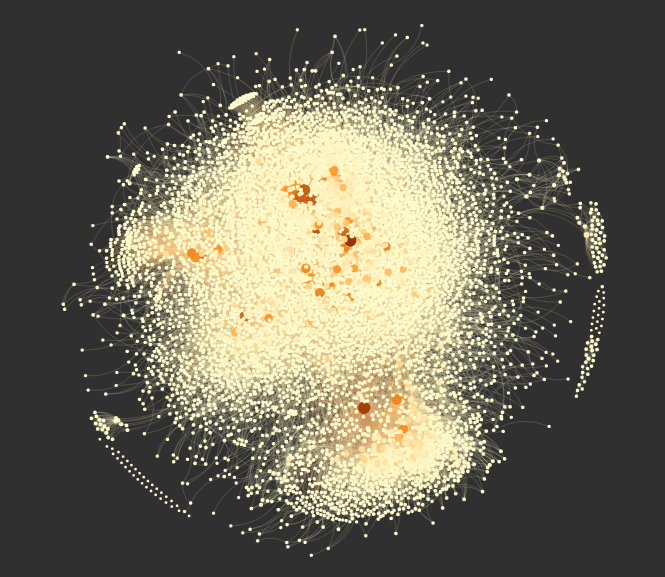
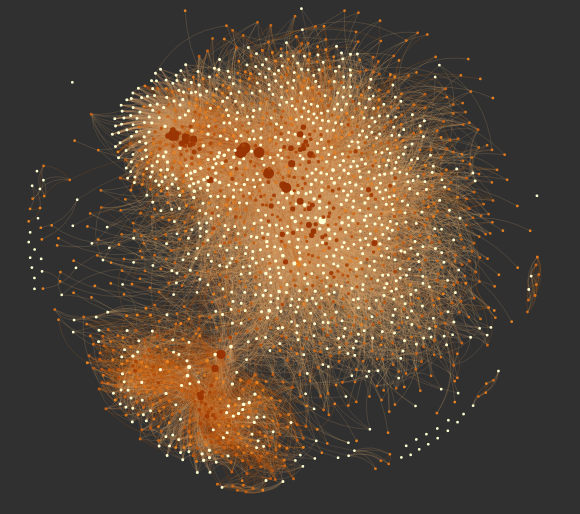
Added figures and nearly-final post.

diff --git a/content/2016-02-09-PypiAnalysis.md b/content/2016-02-09-PypiAnalysis.md
@@ -26,12 +26,13 @@ every package on the Pypi server. There are a few things that are conceivable:
 - Tally up the version strings for each of the packages, and find weird ones/outliers.
 
 I might visit the other options in a later post, but here I will be looking at the dependencies. This post 
-focuses on a programming language, and will necessarily be more technical than the other ones. Pretty 
-pictures near the bottom.
+focuses on a programming language, and will necessarily be more technical than the other ones. Nonetheless, I tried
+to make it accessible to everyone, and explain clearly what I am doing. If you don't care about the nitty gritty of 
+how I figured out the dependencies, skip to the "Dependency Analysis" section.
 
 ## Parsing Package Dependencies
 
-Still here? Cool, let's get into how I did it. The first thing I needed to do was just figure out what the
+The first thing I needed to do was just figure out what the
 dependencies of a given package are. That turned out to be way harder than it has any right to be. The 
 command
 
@@ -80,25 +81,82 @@ The first step left me with a bunch of directories that contain all the metadata
 3. Failing *that*, search any file that ends with '.txt' in any directory that contains the word 'requirement' for stuff that looks like python requirements.
 4. Output the requirements found to a text file
 
-Of the $\sim 74000$ packages on pypi, I was able to parse requirements for 20522. The remaining packages probably do require other packages, but the `setup.py` file is written in such a way that it was difficult to parse. Sadly, my [TelFit package](https://pypi.python.org/pypi/TelFit/1.3.2) is one of those failures because it defines the install_requires keyword programmatically. Leaving those out probably biases the result in some complex way, but I am sick of munging so let's move on to the fun part.
+Of the $\sim 74000$ packages on pypi, I was able to parse requirements for 20522. The remaining packages probably do require other packages, but the `setup.py` file is written in such a way that it was difficult to parse. Leaving those out probably biases the result in some complex way, but I am sick of munging so let's move on to the fun part.
 
 ## Dependency Analysis
 
-Now that I have all of the dependencies for (many of) the packages on the pypi server, I want to see what I can learn. The first thing is to make a network graph of dependencies (click on the image for an interactive version):
+Now that I have all of the dependencies for (many of) the packages on the pypi server, I want to see what I can learn. The first thing I do is make a network graph of dependencies (click on the image for an interactive version):
 
 <a href="http://kgullikson88.github.io/blog/Javascript/PypiGraph/Requirements_clipped/network/index.html">
   <img src="Images/PypiGraph.png" >
 </a>
 
+The network graph visualizes how python packages depend on each other. Each point (or node, in graph-theory speak) represents a python package,
+and each line (or edge) represents that one of the packages depends on the other. This is actually a directed graph, in that it makes sense to say things like "astropy depends on numpy, but not the other way around".
+
 Comparing this network graph to the version that Olivier Girardot made a few years ago, we immediately see
-that the python ecosystem has grown tremendously and become much more connected. The bulk of the network is
-centered on the `requests` module, indicating the python is largely a web language (much to the chagrin of me the scientist!) A good sign is the size of the testing and documentation cluster, which is just above the requests cluster. The pydata stack, which includes `numpy`, `scipy`, `matplotlib`, and `pandas`, is in the upper left. I'm not
-sure what is going on with the clump that is separated from the rest near the bottom; I think it might be iphone/android app frameworks.
+that the python ecosystem has grown tremendously and become much more connected. in fact, the network I show here
+is much smaller than the data I have, because I removed any package with $< 10$ connections. The bulk of the network is
+centered on the [`requests`](http://docs.python-requests.org/en/master/) module, indicating the python is largely useful for interacting with the internet. 
 
-The graph is pretty and very fun to play with, but what can we actually learn from it?
+The clump near the bottom of the graph is caused the [`zope` framework](http://zope.org/). While giving a short talk at a python meetup, I learned that `zope` was an early web framework. It is similar to the more modern and well-known [`django` library](https://www.djangoproject.com/).
 
-TODO: Figure out other interesting statistics.
+## Network Statistics
 
-- Histogram of the number of dependencies for each package.
-- [Centrality measures](https://en.wikipedia.org/wiki/Network_theory#Centrality_measures)
-- Compute the [PageRank](https://en.wikipedia.org/wiki/PageRank) of each node, make a histogram similar to the first stat.
+The graph is pretty and very fun to play with, but what can we actually learn from it? 
+
+### Package Importance
+
+First up: What are the most important packages? It turns out there is not a unique way to answer this question. The first way to answer this is with what is called "node centrality". This basically asks what nodes have the most connections. The PageRank algorithm, which is one of the ways Google ranks websites to decide what to show you, is related to node centrality. The next two figures show the top 10 nodes by degree (the number of connections they have) and by PageRank:
+
+<img src="Figures/Connections.png">
+
+<img src="Figures/PageRank.png">
+
+Both measures give more or less the same answers, and they agree well with intuition. The `requests` library is the most important node, followed by `django`. The `numpy` and `cython` packages are largely for scientific computing, another major component of the python ecosystem.
+
+We can also try to determine important packages with the concept of "betweenness centrality". The idea here is to find the shortest path between every two nodes in the network. The betweenness centrality of a node is the fraction of these shortest paths that pass through the node. A good example is the airport network: Lots of planes pass through major hubs on the way to their destination, so they have high betweeness centrality. Here is the top ten by this metric:
+
+<img src="Figures/Betweenness.png">
+
+This way of measuring important packages gives very different packages. There are lots of packages relating to testing frameworks and documentation, which are not really run-time dependencies that I care about. This just goes to show that different ways to measure important packages can give very different answers! I favor the node centrality estimates for this network, since it gives answers that line up better with my intuition.
+
+### Development Communities
+
+Alright we have a list of important packages, but can we go further and ask what distinct communities exist in python? This is much more difficult, and is related to the NP-complete [Clique Problem](https://en.wikipedia.org/wiki/Clique_problem). The general solution to these problems is very slow: in big-O notation it is $O(a^n)$ where $a$ is a constant set by the specific algorithm. With $\sim 26000$ nodes in my network, that is completely intractable. Luckily, a lot of people have been working on this kind of problem with much bigger data (facebook, Google, etc). It turns out there is a dendrogram-based approach that works well for this network. The algorithm is described in detail [here](http://arxiv.org/abs/0803.0476), and is implemented in the [`community`](https://pypi.python.org/pypi/python-louvain/0.3) code. Here's how it works:
+
+1. Start with all nodes in their own communities
+2. For each node, test if the "modularity" increases by putting it into the same community as one of its neighbors (one of the nodes it is connected to). If so, combine the two nodes into a community
+3. Continue until no more gain is found for any single nodes.
+4. Make a new network where each node is now the communities found in the above set.
+5. Repeat steps 1-4 many times, until the modularity no longer increases.
+
+We can visualize the network and the communities this algorithm finds with an adjacency matrix:
+
+<img src="Figures/AdjacencyMatrix.png">
+
+In this figure, both the x- and y-axes are the nodes (packages). The intersection between nodes is colored with a black dot if there is an edge
+between the nodes. The communities that we found are the set of large squares going down the diagonal of the matrix. The bigger the square, the more packages exist in that community. The "darker" the square, the more completelly connected that community is (i.e. very dark communities indicate that every package in that community depends on almost every other package in the community).
+
+I have labeled the top ten biggest communities, and found the most important packages in the community with the PageRank algorithm. Here is what I found for each labeled community. Keep in mind that I don't use the majority of these packages, so I might be a little bit off when describing what the packages do!
+
+1. This community is centered on the `flask` and `bottle` packages. These are both web server frameworks, and provide an easy way to set up a web server. 
+2. This community has a lot of roughly equally-important nodes, which include `redis`, `tornado`, and `pyzmq`. I'm not really sure what unifies these all - I know `tornado` and `pyzmq` are both required by ipython/jupyter notebooks, but those packages are not in this community.
+3. This is the pydata community, and the one I am most familiar with. It is dominated by `numpy`, with smaller contributions from `scipy`, `matplotlib`, and `pandas`. 
+4. This community has lots of testing and documentation packages. 
+5. This is by far dominated by the `django` package, a very powerful framework for generating dynamic websites.
+6. This community is dominated by `requests`, as well as a few other tools for web interface/scraping.
+7. This community is dominated by the `distribute` package, but really it is the zope community that I described above. This is the only community that was visually distinguishable in the network graph.
+8. I think this community is focused on static website development and configuration. There are strong showings from the `pyyamml` and `jinja2` packages.
+9. This community looks like it contains small but useful utilities: `argparse`, `decorator`, `pyparsing` have strong showings.
+10. This one has a pretty large variety of packages as far as I can tell. The most important package in this community is `sqlalchemy`, which is a python interface to SQL queries.
+
+
+## Degree Distribution
+
+The last thing I will look at is a global property of the network: the distribution of how many edges there are for each node (how many packages each package depends on).
+
+<img src="Figures/DegreeDistribution.png">
+
+This is a power-law distribution, indicating that there are a few packages that many many things depend on, but most packages only have a few others that depend on them. We could have guessed this shape from the node centrality measures, which also look like power laws. What does a power-law degree distribution tell us about the graph? A likely explanation is a "rich get richer" scenario: packages that already have lots of stuff that uses them show up high on google search results, and so new package developers use them too. For example, almost all scientists use the `matplotlib` plotting package, and so their code all requires matplotlib. A much smaller set of python programmers use, for example, the `bokeh` library for plotting. The reason is likely simply because matplotlib is the first google result for "python plotting". This interpretation is supported by the fact that the most important packages tend to be fairly old; they have had more time to accumulate a critical mass of users.
+
